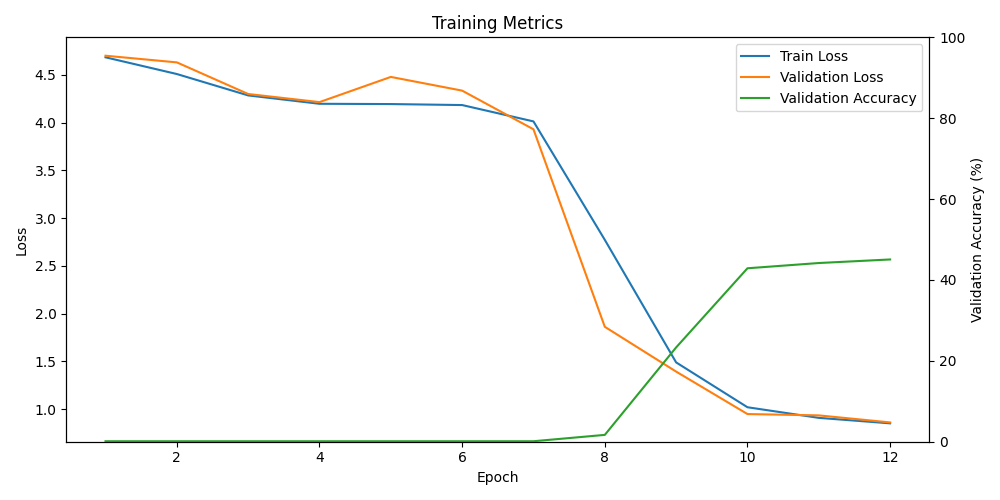
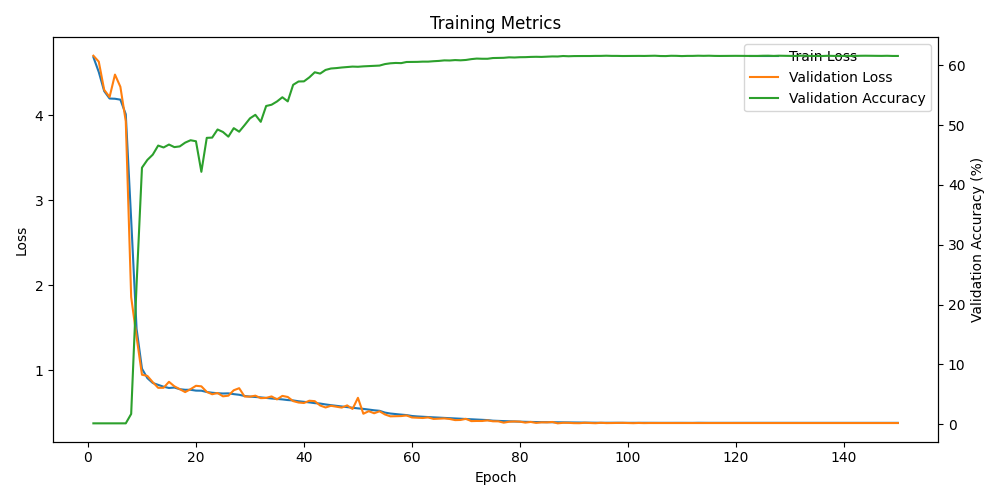
+train crnn, plateau

diff --git a/train_ocr_crnn.py b/train_ocr_crnn.py
@@ -242,7 +242,7 @@ def main():
         # save model after each epoch
         torch.save(model.state_dict(), f"setname_crnn/setname_crnn_epoch{epoch_index_string}.pth")
         
-        save_for_plot(avg_train_loss, avg_val_loss, acc, epoch_index_string)
+        save_for_plot(avg_train_loss, avg_val_loss, acc, epoch_index_string, "setname_crnn/training_metrics.csv")
 
         elapsed = time.time() - start_time
         h, rem = divmod(int(elapsed), 3600)
@@ -256,5 +256,5 @@ def main():
 
 
 if __name__ == "__main__":
-    #main()
+    main()
     draw_plot("setname_crnn/training_metrics.csv", "setname_crnn/training_metrics.png")

diff --git a/train_cnns.py b/train_cnns.py
@@ -174,9 +174,9 @@ def main():
 
         # save model after each epoch
         torch.save(model.state_dict(), f"{cnn_name}_cnn/{cnn_name}_resnet18_epoch{epoch_index_string}.pth")
-        
-        save_for_plot(avg_train_loss, avg_val_loss, acc, epoch_index_string)
-        
+
+        save_for_plot(avg_train_loss, avg_val_loss, acc, epoch_index_string, f"{cnn_name}_cnn/training_metrics.csv")
+
         elapsed = time.time() - start_time
         h, rem = divmod(int(elapsed), 3600)
         m, s = divmod(rem, 60)
